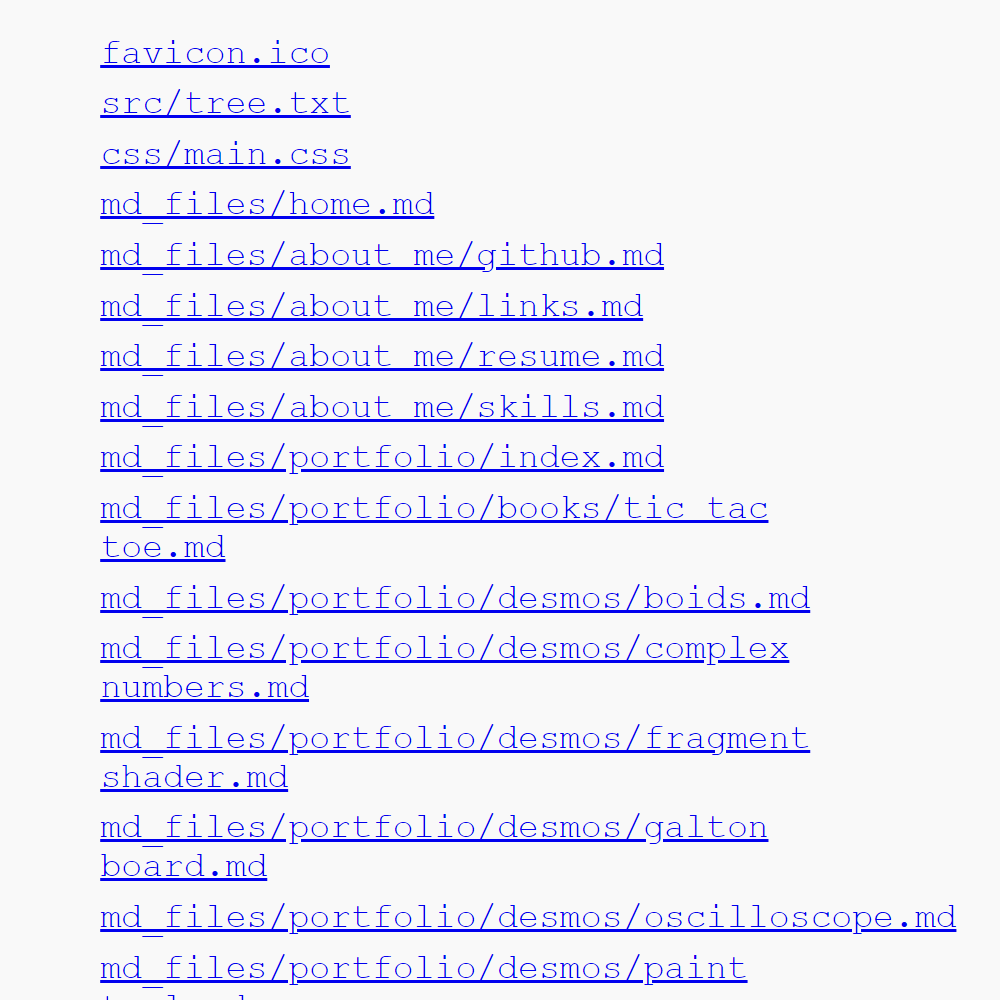
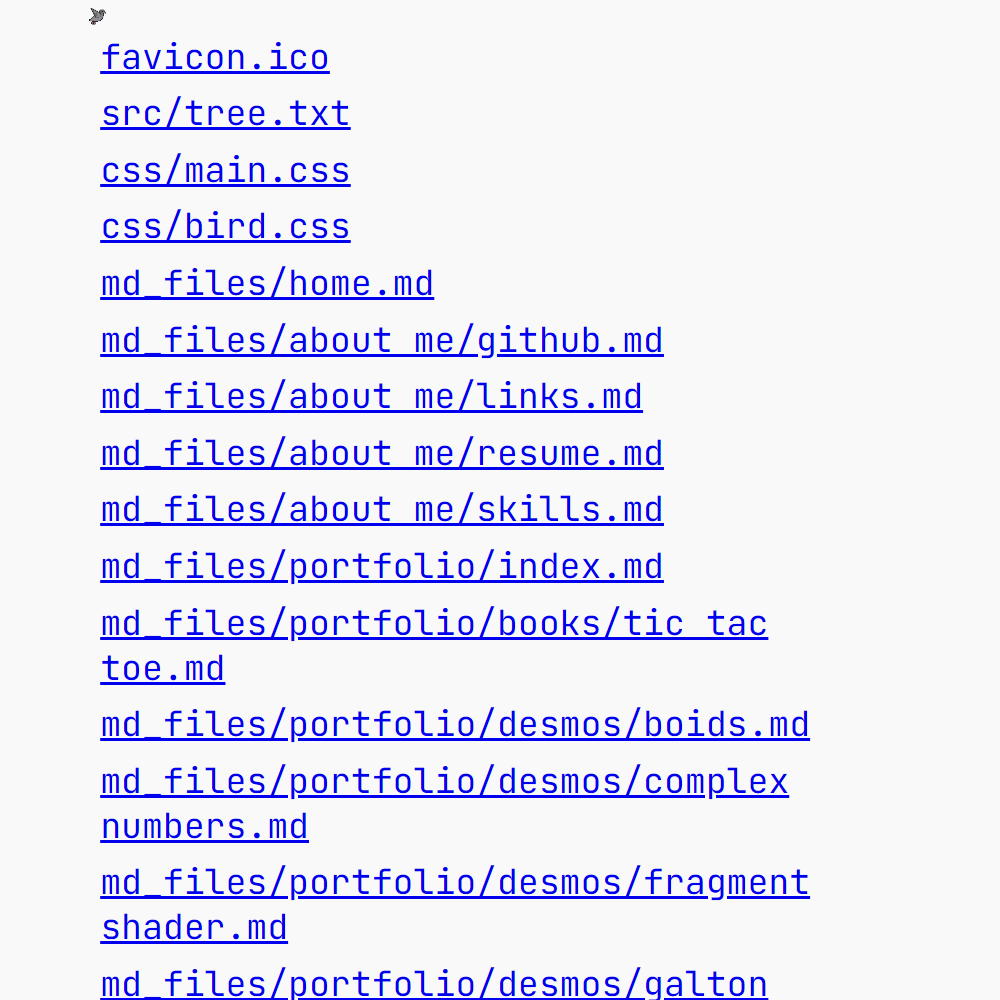
better css widths

Changed region(s): [[0.093, 0.0, 0.961, 1.0]]

diff --git a/css/main.css b/css/main.css
@@ -628,6 +628,7 @@ table {
     /* list-style-type: none; */
     padding-left: 0.5em;
     padding: 0.1em;
+    width: fit-content;
 }
 
 .bookmark {

diff --git a/md_files/site/website stats.md b/md_files/site/website stats.md
@@ -59,17 +59,17 @@ p.innerHTML = '<thead><th>Event</th><th>Time (ms)</th></thead>'+text;
   </img>
 </td>
 <tr>
-<td>last compiled</td><td>2023-11-18 00:15:21</td>
+<td>last compiled</td><td>2023-11-18 00:16:28</td>
 </tr>
 <tr>
 <td>number of pages</td><td>46</td>
 </tr>
 <tr>
-<td>project size</td><td>144.2MiB</td>
+<td>project size</td><td>144.4MiB</td>
 </tr>
 <!-- <tr>
 <td>word count</td><td>0</td>
 </tr> -->
 </table>
 
-<!-- LAST EDITED 1700219722 LAST EDITED-->
+<!-- LAST EDITED 1700219789 LAST EDITED-->

diff --git a/md_files/site/resources.md b/md_files/site/resources.md
@@ -99,4 +99,4 @@
 
 [md_files/site/website stats.md](md_files/site/website%20stats.md)
 
-<!-- LAST EDITED 1700219722 LAST EDITED-->
+<!-- LAST EDITED 1700219789 LAST EDITED-->
